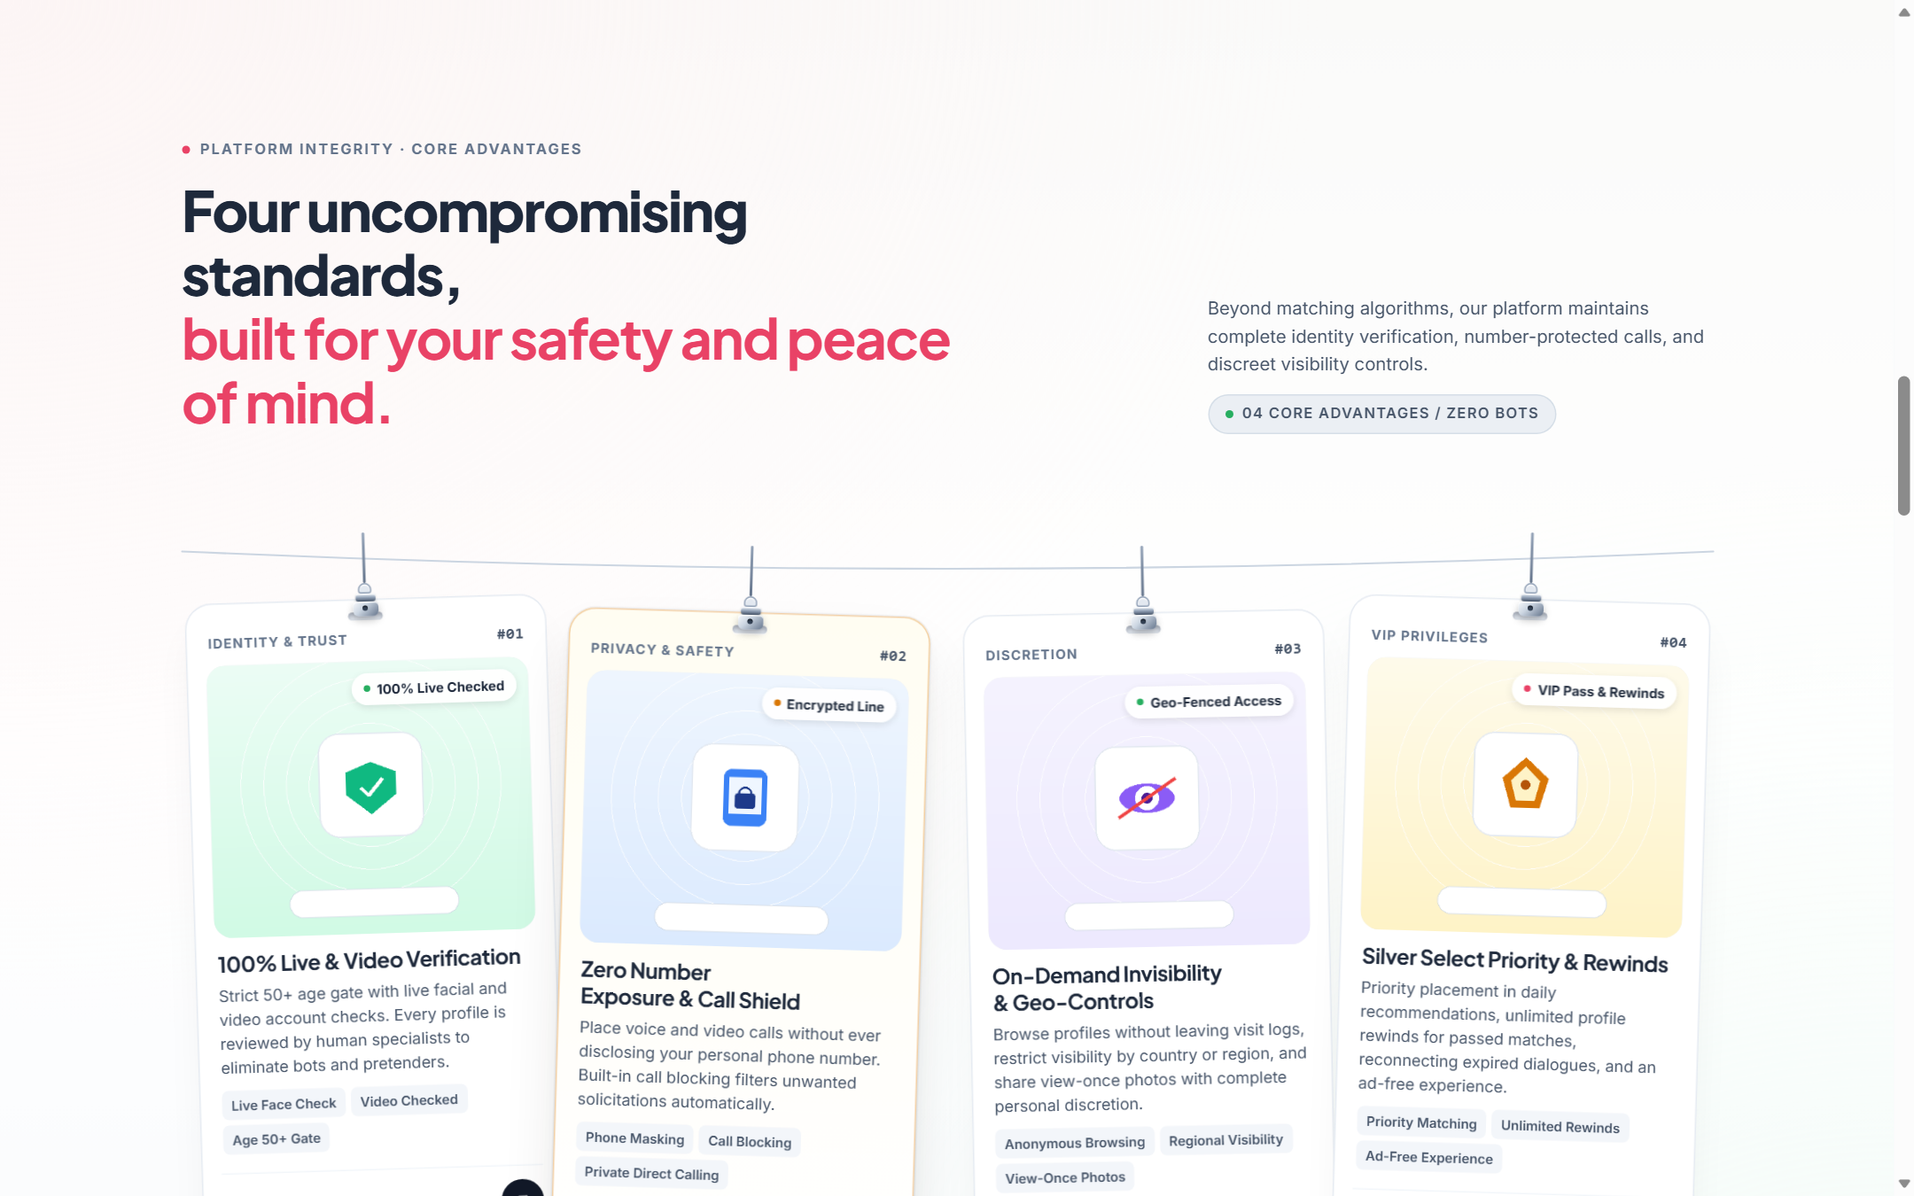
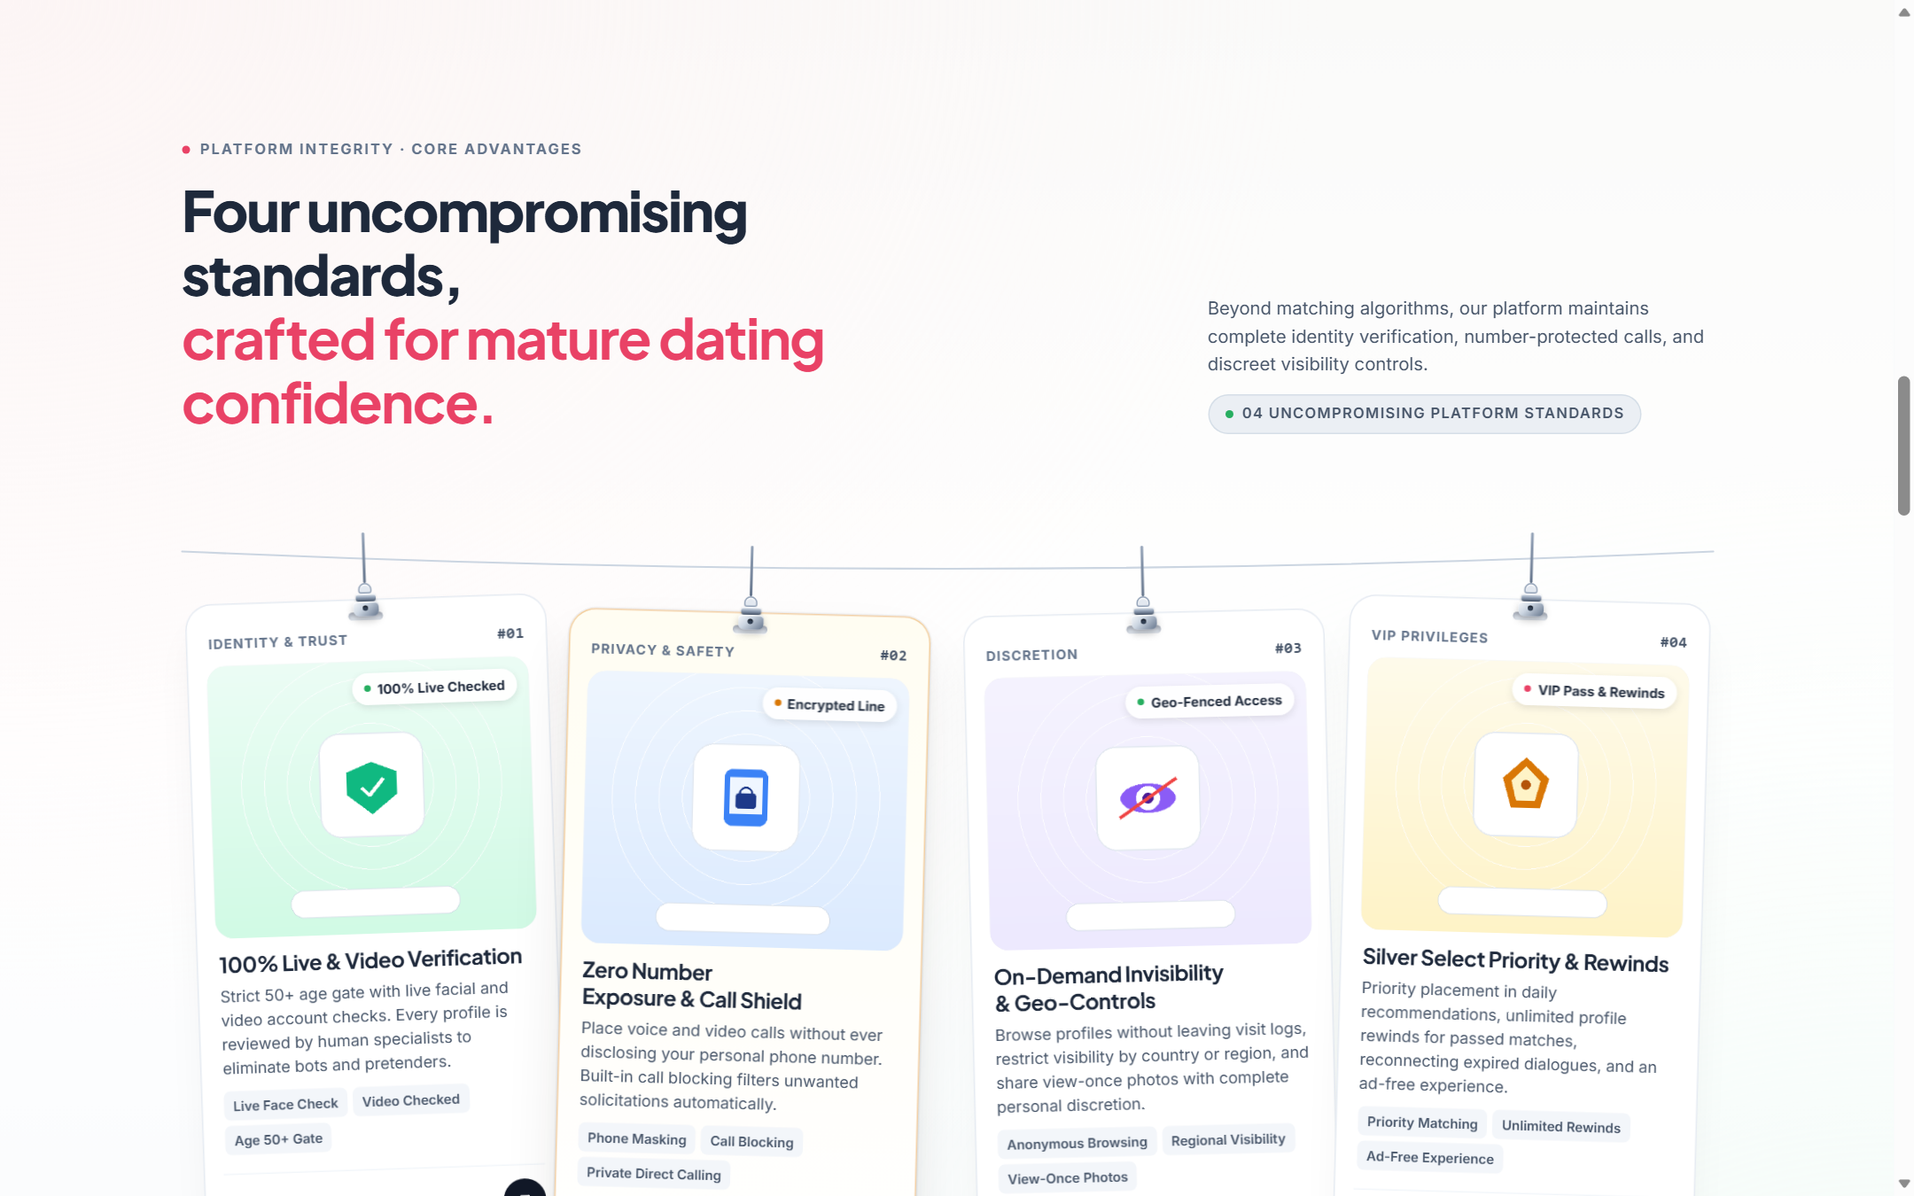
refactor(content): eliminate narrative overlap between comparison and trust, ensuring distinct thematic focus and full decoupling

diff --git a/index.html b/index.html
@@ -6026,7 +6026,7 @@ img {
           <div class="scene-copy" data-scene-index="1">
             <span class="scene-kicker">AGE 50&ndash;99 FILTERS</span>
             <h3 class="scene-title">Preferences for 50+.<br><em>Never compromise.</em></h3>
-            <p class="scene-desc">Built exclusively for mature singles. Set exact age brackets (50&ndash;99), regional radius, and lifestyle preferences without twenty-something&nbsp;noise.</p>
+            <p class="scene-desc">Refine your search with precision age ranges (50&ndash;99), geographic distance, and living habits&mdash;ensuring every suggested peer aligns with your stage of&nbsp;life.</p>
             <div class="scene-floating-chips">
               <span class="chip-juniper">&#x1F3AF; Age 50&ndash;99 Slider</span>
               <span class="chip-popup chip-rose">Custom criteria</span>
@@ -6037,7 +6037,7 @@ img {
           <div class="scene-copy" data-scene-index="2">
             <span class="scene-kicker">IN-DEPTH PROFILES</span>
             <h3 class="scene-title">Connect on life stories,<br><em>not fast impressions.</em></h3>
-            <p class="scene-desc">Browse heartfelt answers, weekend passions, favorite morning routines, and genuine life values. Learn who they truly are before reaching&nbsp;out.</p>
+            <p class="scene-desc">Read thoughtful answers to life prompts, weekend pastimes, and literary favorites. Understand someone's worldview before exchanging your first&nbsp;message.</p>
             <div class="scene-floating-chips">
               <span class="chip-juniper">&#x1F4D6; Heartfelt Life Answers</span>
               <span class="chip-popup chip-rose">Direct &ldquo;Say Hi&rdquo;</span>
@@ -6301,7 +6301,7 @@ img {
         </div>
         <h2 class="hanging-title">
           Four uncompromising standards,<br>
-          <span class="title-highlight">built for your safety and peace of mind.</span>
+          <span class="title-highlight">crafted for mature dating confidence.</span>
         </h2>
       </div>
 
@@ -6311,7 +6311,7 @@ img {
         </p>
         <div class="hanging-badge-pill">
           <span class="pill-status-dot"></span>
-          <span class="pill-label">04 CORE ADVANTAGES / ZERO BOTS</span>
+          <span class="pill-label">04 UNCOMPROMISING PLATFORM STANDARDS</span>
         </div>
       </div>
     </div>
@@ -6651,40 +6651,40 @@ img {
               <span class="b-pill b-pill-honey">Curated Matching</span>
               <div class="b-ratio">Zero Fatigue</div>
             </div>
-            <h3 class="b-title">Curated Daily Matches &amp; Lifestyle Criteria</h3>
+            <h3 class="b-title">Focused Daily Introductions</h3>
             <p class="b-desc">
-              Introductions are guided by your selected age bracket (50&ndash;99), regional radius, and genuine lifestyle preferences rather than split-second photo&nbsp;glances.
+              Receive a manageable selection of compatible peers each morning rather than scrolling through endless cards. Thoughtful attention replaces mindless swiping.
             </p>
             <div class="b-metric-row">
               <div class="metric-good">
                 <span class="metric-icon">&#x2713;</span>
-                <span>Curated Daily Matches &amp; verified profiles</span>
+                <span>Focused daily recommendations you can digest</span>
               </div>
               <div class="metric-bad">
                 <span class="metric-icon">&#x2715;</span>
-                <span>Endless random photo catalogues</span>
+                <span>Endless photo carousels causing fatigue</span>
               </div>
             </div>
           </article>
 
-          <!-- Pillar 3: Human Verification -->
+          <!-- Pillar 3: Character & Perspective -->
           <article class="benchmark-card">
             <div class="benchmark-header">
-              <span class="b-pill b-pill-juniper">Safety Screening</span>
-              <div class="b-ratio">Zero Bots</div>
+              <span class="b-pill b-pill-juniper">Rich Profiles</span>
+              <div class="b-ratio">Authentic Depth</div>
             </div>
-            <h3 class="b-title">Strict Manual Inspection</h3>
+            <h3 class="b-title">Thoughtful Prompts &amp; Life Perspective</h3>
             <p class="b-desc">
-              Dedicated customer care specialists inspect new profile submissions and photos. Financial solicitations and deceptive accounts are intercepted&nbsp;immediately.
+              Members share favorite travel destinations, Sunday pastimes, cherished books, and personal outlooks. Learn character and life philosophy before sending a single message.
             </p>
             <div class="b-metric-row">
               <div class="metric-good">
                 <span class="metric-icon">&#x2713;</span>
-                <span>Manual profile &amp; image verification</span>
+                <span>Prompt-rich profiles highlighting genuine character</span>
               </div>
               <div class="metric-bad">
                 <span class="metric-icon">&#x2715;</span>
-                <span>Frequent catfishes and automated bots</span>
+                <span>Empty one-line bios and superficial photo checks</span>
               </div>
             </div>
           </article>
@@ -6697,16 +6697,16 @@ img {
             </div>
             <h3 class="b-title">Conversations That Unfold Naturally</h3>
             <p class="b-desc">
-              No countdown timers, expiration warnings, or rush. Take your time sharing life stories, favorite morning routines, and future travel plans with genuine peace of&nbsp;mind.
+              No countdown timers, ticking match expirations, or artificial urgency. Exchange notes comfortably on your own schedule, day or night.
             </p>
             <div class="b-metric-row">
               <div class="metric-good">
                 <span class="metric-icon">&#x2713;</span>
-                <span>Calm, dignified communication pacing</span>
+                <span>Relaxed pacing with no match expiration clocks</span>
               </div>
               <div class="metric-bad">
                 <span class="metric-icon">&#x2715;</span>
-                <span>24-hour match expirations &amp; rapid ghosting</span>
+                <span>24-hour disappearing matches &amp; rapid ghosting</span>
               </div>
             </div>
           </article>
@@ -6780,10 +6780,10 @@ img {
         <!-- Executive Split Header: Left Title + Right Safety Console -->
         <div class="trust-stage-header">
           <div class="trust-header-left">
-            <span class="kicker">Security &amp; Peace of Mind</span>
+            <span class="kicker">Security &amp; Account Integrity</span>
             <h2 id="trustTitle" class="trust-stage-title">
               The Triple-Shield<br>
-              <span class="highlight">Protection Architecture</span>
+              <span class="highlight">Defense Architecture</span>
             </h2>
           </div>
           <div class="trust-header-right">
@@ -6813,8 +6813,8 @@ img {
               Customer care teams inspect profile photos and written descriptions to confirm genuine identity before profiles become&nbsp;visible.
             </p>
             <div class="vault-feature-pills">
-              <span class="vpill">Manual Photo Verification</span>
-              <span class="vpill">Zero Bot Profiles</span>
+              <span class="vpill">Manual Profile Review</span>
+              <span class="vpill">Verified Mature Members</span>
             </div>
           </article>
 
@@ -6831,7 +6831,7 @@ img {
               Your phone number, home address, and personal details stay 100% private. Nothing is ever shared or visible to the public without your&nbsp;permission.
             </p>
             <div class="vault-feature-pills">
-              <span class="vpill">Zero Number Exposure</span>
+              <span class="vpill">Phone Number Cloaking</span>
               <span class="vpill">Incognito Mode Available</span>
             </div>
           </article>
@@ -6968,7 +6968,7 @@ img {
             </summary>
             <div class="faq-content">
               <p>
-                Rather than overwhelming you with endless catalogs, you receive handpicked Daily Matches based on your chosen age bracket (50&ndash;99), regional radius, and lifestyle preferences. You can also explore the Gallery, refine custom filters, send friendly Winks, or save favorite profiles to revisit whenever you&nbsp;wish.
+                Each morning, your discovery feed delivers a curated batch of introductions based on your selected criteria and location. You can also explore the community gallery, adjust search filters, send friendly Winks, or save favorite profiles to read at your own&nbsp;pace.
               </p>
             </div>
           </details>

diff --git a/components/comparison/template.html b/components/comparison/template.html
@@ -80,40 +80,40 @@
               <span class="b-pill b-pill-honey">Curated Matching</span>
               <div class="b-ratio">Zero Fatigue</div>
             </div>
-            <h3 class="b-title">Curated Daily Matches &amp; Lifestyle Criteria</h3>
+            <h3 class="b-title">Focused Daily Introductions</h3>
             <p class="b-desc">
-              Introductions are guided by your selected age bracket (50&ndash;99), regional radius, and genuine lifestyle preferences rather than split-second photo&nbsp;glances.
+              Receive a manageable selection of compatible peers each morning rather than scrolling through endless cards. Thoughtful attention replaces mindless swiping.
             </p>
             <div class="b-metric-row">
               <div class="metric-good">
                 <span class="metric-icon">&#x2713;</span>
-                <span>Curated Daily Matches &amp; verified profiles</span>
+                <span>Focused daily recommendations you can digest</span>
               </div>
               <div class="metric-bad">
                 <span class="metric-icon">&#x2715;</span>
-                <span>Endless random photo catalogues</span>
+                <span>Endless photo carousels causing fatigue</span>
               </div>
             </div>
           </article>
 
-          <!-- Pillar 3: Human Verification -->
+          <!-- Pillar 3: Character & Perspective -->
           <article class="benchmark-card">
             <div class="benchmark-header">
-              <span class="b-pill b-pill-juniper">Safety Screening</span>
-              <div class="b-ratio">Zero Bots</div>
+              <span class="b-pill b-pill-juniper">Rich Profiles</span>
+              <div class="b-ratio">Authentic Depth</div>
             </div>
-            <h3 class="b-title">Strict Manual Inspection</h3>
+            <h3 class="b-title">Thoughtful Prompts &amp; Life Perspective</h3>
             <p class="b-desc">
-              Dedicated customer care specialists inspect new profile submissions and photos. Financial solicitations and deceptive accounts are intercepted&nbsp;immediately.
+              Members share favorite travel destinations, Sunday pastimes, cherished books, and personal outlooks. Learn character and life philosophy before sending a single message.
             </p>
             <div class="b-metric-row">
               <div class="metric-good">
                 <span class="metric-icon">&#x2713;</span>
-                <span>Manual profile &amp; image verification</span>
+                <span>Prompt-rich profiles highlighting genuine character</span>
               </div>
               <div class="metric-bad">
                 <span class="metric-icon">&#x2715;</span>
-                <span>Frequent catfishes and automated bots</span>
+                <span>Empty one-line bios and superficial photo checks</span>
               </div>
             </div>
           </article>
@@ -126,16 +126,16 @@
             </div>
             <h3 class="b-title">Conversations That Unfold Naturally</h3>
             <p class="b-desc">
-              No countdown timers, expiration warnings, or rush. Take your time sharing life stories, favorite morning routines, and future travel plans with genuine peace of&nbsp;mind.
+              No countdown timers, ticking match expirations, or artificial urgency. Exchange notes comfortably on your own schedule, day or night.
             </p>
             <div class="b-metric-row">
               <div class="metric-good">
                 <span class="metric-icon">&#x2713;</span>
-                <span>Calm, dignified communication pacing</span>
+                <span>Relaxed pacing with no match expiration clocks</span>
               </div>
               <div class="metric-bad">
                 <span class="metric-icon">&#x2715;</span>
-                <span>24-hour match expirations &amp; rapid ghosting</span>
+                <span>24-hour disappearing matches &amp; rapid ghosting</span>
               </div>
             </div>
           </article>

diff --git a/components/film/template.html b/components/film/template.html
@@ -103,7 +103,7 @@
           <div class="scene-copy" data-scene-index="1">
             <span class="scene-kicker">AGE 50&ndash;99 FILTERS</span>
             <h3 class="scene-title">Preferences for 50+.<br><em>Never compromise.</em></h3>
-            <p class="scene-desc">Built exclusively for mature singles. Set exact age brackets (50&ndash;99), regional radius, and lifestyle preferences without twenty-something&nbsp;noise.</p>
+            <p class="scene-desc">Refine your search with precision age ranges (50&ndash;99), geographic distance, and living habits&mdash;ensuring every suggested peer aligns with your stage of&nbsp;life.</p>
             <div class="scene-floating-chips">
               <span class="chip-juniper">&#x1F3AF; Age 50&ndash;99 Slider</span>
               <span class="chip-popup chip-rose">Custom criteria</span>
@@ -114,7 +114,7 @@
           <div class="scene-copy" data-scene-index="2">
             <span class="scene-kicker">IN-DEPTH PROFILES</span>
             <h3 class="scene-title">Connect on life stories,<br><em>not fast impressions.</em></h3>
-            <p class="scene-desc">Browse heartfelt answers, weekend passions, favorite morning routines, and genuine life values. Learn who they truly are before reaching&nbsp;out.</p>
+            <p class="scene-desc">Read thoughtful answers to life prompts, weekend pastimes, and literary favorites. Understand someone's worldview before exchanging your first&nbsp;message.</p>
             <div class="scene-floating-chips">
               <span class="chip-juniper">&#x1F4D6; Heartfelt Life Answers</span>
               <span class="chip-popup chip-rose">Direct &ldquo;Say Hi&rdquo;</span>

diff --git a/components/trust/template.html b/components/trust/template.html
@@ -43,10 +43,10 @@
         <!-- Executive Split Header: Left Title + Right Safety Console -->
         <div class="trust-stage-header">
           <div class="trust-header-left">
-            <span class="kicker">Security &amp; Peace of Mind</span>
+            <span class="kicker">Security &amp; Account Integrity</span>
             <h2 id="trustTitle" class="trust-stage-title">
               The Triple-Shield<br>
-              <span class="highlight">Protection Architecture</span>
+              <span class="highlight">Defense Architecture</span>
             </h2>
           </div>
           <div class="trust-header-right">
@@ -76,8 +76,8 @@
               Customer care teams inspect profile photos and written descriptions to confirm genuine identity before profiles become&nbsp;visible.
             </p>
             <div class="vault-feature-pills">
-              <span class="vpill">Manual Photo Verification</span>
-              <span class="vpill">Zero Bot Profiles</span>
+              <span class="vpill">Manual Profile Review</span>
+              <span class="vpill">Verified Mature Members</span>
             </div>
           </article>
 
@@ -94,7 +94,7 @@
               Your phone number, home address, and personal details stay 100% private. Nothing is ever shared or visible to the public without your&nbsp;permission.
             </p>
             <div class="vault-feature-pills">
-              <span class="vpill">Zero Number Exposure</span>
+              <span class="vpill">Phone Number Cloaking</span>
               <span class="vpill">Incognito Mode Available</span>
             </div>
           </article>

diff --git a/components/faq/template.html b/components/faq/template.html
@@ -83,7 +83,7 @@
             </summary>
             <div class="faq-content">
               <p>
-                Rather than overwhelming you with endless catalogs, you receive handpicked Daily Matches based on your chosen age bracket (50&ndash;99), regional radius, and lifestyle preferences. You can also explore the Gallery, refine custom filters, send friendly Winks, or save favorite profiles to revisit whenever you&nbsp;wish.
+                Each morning, your discovery feed delivers a curated batch of introductions based on your selected criteria and location. You can also explore the community gallery, adjust search filters, send friendly Winks, or save favorite profiles to read at your own&nbsp;pace.
               </p>
             </div>
           </details>

diff --git a/components/hanging-cards/template.html b/components/hanging-cards/template.html
@@ -10,7 +10,7 @@
         </div>
         <h2 class="hanging-title">
           Four uncompromising standards,<br>
-          <span class="title-highlight">built for your safety and peace of mind.</span>
+          <span class="title-highlight">crafted for mature dating confidence.</span>
         </h2>
       </div>
 
@@ -20,7 +20,7 @@
         </p>
         <div class="hanging-badge-pill">
           <span class="pill-status-dot"></span>
-          <span class="pill-label">04 CORE ADVANTAGES / ZERO BOTS</span>
+          <span class="pill-label">04 UNCOMPROMISING PLATFORM STANDARDS</span>
         </div>
       </div>
     </div>

diff --git a/scratch/audit_cross_repetition.py b/scratch/audit_cross_repetition.py
@@ -1,0 +1,51 @@
+import glob
+import os
+import re
+from collections import Counter
+
+texts = {}
+components = ['header', 'hero', 'film', 'hanging-cards', 'comparison', 'trust', 'faq', 'footer']
+
+for comp in components:
+    path = f'components/{comp}/template.html'
+    if os.path.exists(path):
+        with open(path, 'r', encoding='utf-8') as f:
+            content = f.read()
+            clean = re.sub(r'<svg.*?</svg>', '', content, flags=re.DOTALL)
+            clean = re.sub(r'<[^>]+>', ' ', clean)
+            clean = re.sub(r'&nbsp;', ' ', clean)
+            clean = re.sub(r'&amp;', '&', clean)
+            clean = re.sub(r'&ndash;', '-', clean)
+            clean = re.sub(r'\s+', ' ', clean).strip()
+            texts[comp] = clean
+
+print("=== CHECKING COMMON 3-WORD PHRASES ACROSS COMPONENTS ===")
+comp_phrases = {}
+for comp, text in texts.items():
+    words = [re.sub(r'[^a-zA-Z0-9]', '', w.lower()) for w in text.split()]
+    words = [w for w in words if w]
+    phrases = set()
+    for i in range(len(words)-2):
+        p = " ".join(words[i:i+3])
+        phrases.add(p)
+    comp_phrases[comp] = phrases
+
+generic_whitelist = {
+    'singles over 50', 'for singles over', 'privacy policy terms', 'terms of service',
+    'over 50 who', 'over 50 in', 'people over 50', 'mature singles over'
+}
+
+overlap_found = False
+for i in range(len(components)):
+    for j in range(i+1, len(components)):
+        c1 = components[i]
+        c2 = components[j]
+        overlap = comp_phrases[c1].intersection(comp_phrases[c2]) - generic_whitelist
+        if overlap:
+            overlap_found = True
+            print(f"\nOverlap between [{c1}] and [{c2}]:")
+            for phrase in sorted(overlap):
+                print(f"  - '{phrase}'")
+
+if not overlap_found:
+    print("No notable phrase overlap found!")
